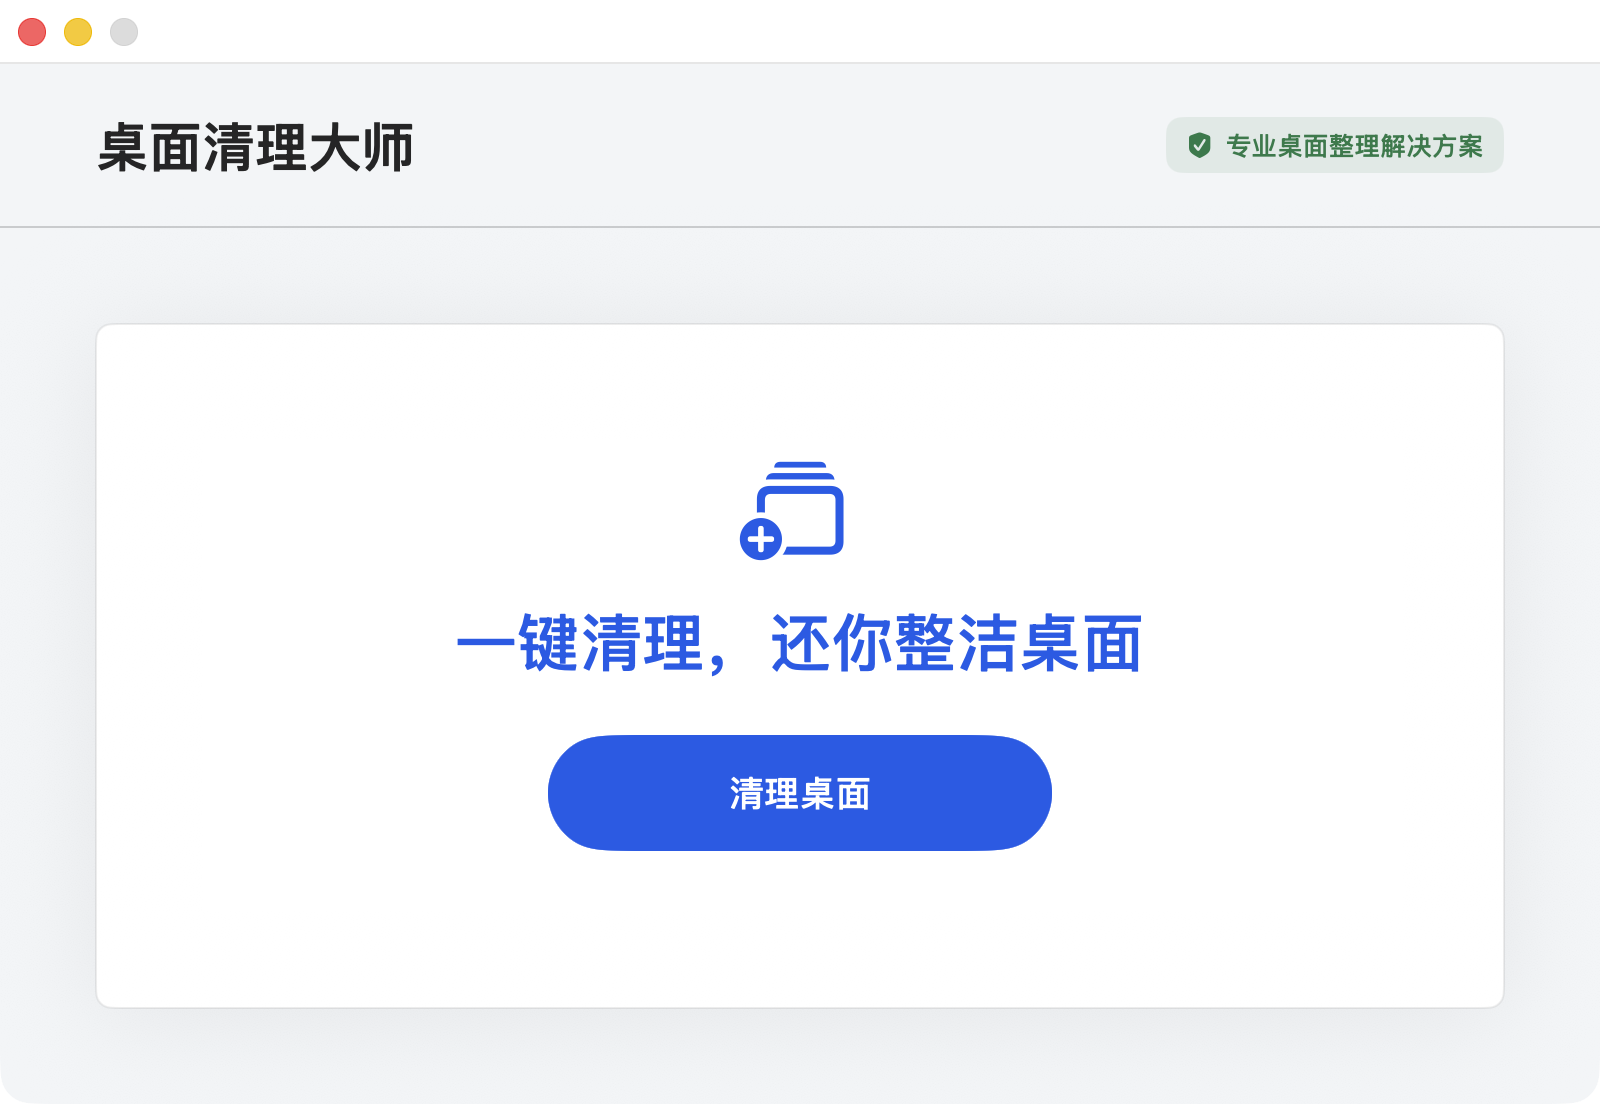
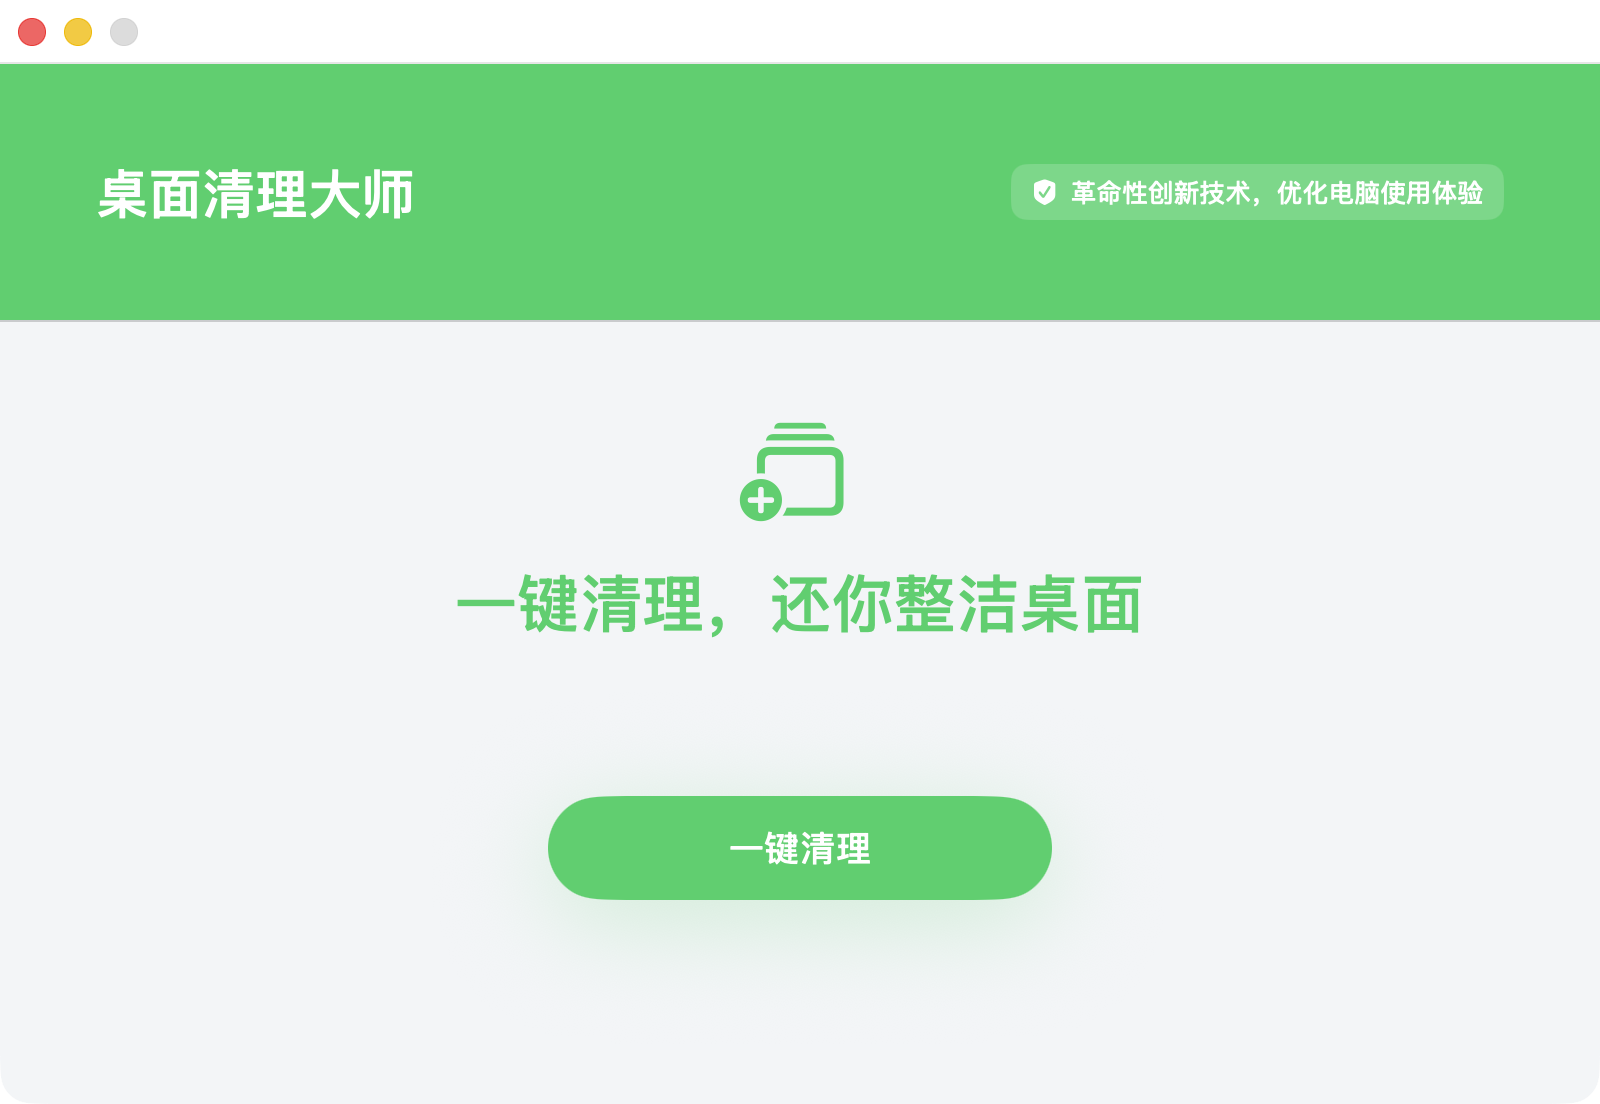
style(ui): unify green app shell
Move the green treatment to the header, remove the inner content frame, use one primary green token across states and buttons, and refresh the README screenshot.

diff --git a/Sources/DeskMagnetApp/ContentView.swift b/Sources/DeskMagnetApp/ContentView.swift
@@ -25,7 +25,7 @@ struct ContentView: View {
             )
             .frame(maxWidth: .infinity, maxHeight: .infinity)
             .padding(.horizontal, DeskMagnetRhythm.canvasInset)
-            .padding(.vertical, DeskMagnetRhythm.canvasInset)
+            .padding(.vertical, DeskMagnetRhythm.bodyInset)
         }
         .frame(minWidth: 720, minHeight: 440)
         .background(DeskMagnetPalette.window)
@@ -51,73 +51,29 @@ private struct ContentPanel: View {
     let primaryAction: () -> Void
 
     var body: some View {
-        ZStack {
-            RoundedRectangle(cornerRadius: 8, style: .continuous)
-                .fill(DeskMagnetPalette.panel)
-                .overlay {
-                    RoundedRectangle(cornerRadius: 8, style: .continuous)
-                        .stroke(DeskMagnetPalette.panelBorder, lineWidth: 1)
-                }
-                .shadow(color: DeskMagnetPalette.whisperShadow, radius: 24, x: 0, y: 4)
-
-            VStack(spacing: 0) {
-                Spacer(minLength: 0)
-                StatusSection(phase: phase)
-                    .frame(maxWidth: .infinity, alignment: .center)
-                if showsActionSection {
-                    ActionSection(
-                        primaryButtonTitle: primaryButtonTitle,
-                        showsPrimaryButton: showsPrimaryButton,
-                        isBusy: isBusy,
-                        phase: phase,
-                        primaryAction: primaryAction
-                    )
-                    .frame(maxWidth: .infinity, minHeight: 82, idealHeight: 82, maxHeight: 82, alignment: .center)
-                    .padding(.top, DeskMagnetRhythm.md)
-                }
-                Spacer(minLength: 0)
-            }
-            .padding(.horizontal, DeskMagnetRhythm.section)
-            .padding(.vertical, DeskMagnetRhythm.xl)
-
-            if !footnote.isEmpty {
-                FootnoteSection(text: footnote)
-                    .frame(maxWidth: .infinity, alignment: .center)
-                    .padding(.horizontal, DeskMagnetRhythm.section)
-                    .padding(.bottom, DeskMagnetRhythm.xl)
-                    .frame(maxHeight: .infinity, alignment: .bottom)
-            }
+        VStack(spacing: DeskMagnetRhythm.lg) {
+            StatusSection(phase: phase)
+                .frame(maxWidth: .infinity, alignment: .center)
+            ActionSection(
+                primaryButtonTitle: primaryButtonTitle,
+                showsPrimaryButton: showsPrimaryButton,
+                footnote: footnote,
+                isBusy: isBusy,
+                phase: phase,
+                primaryAction: primaryAction
+            )
+            .frame(maxWidth: .infinity, minHeight: 64, alignment: .center)
         }
-    }
-
-    private var showsActionSection: Bool {
-        switch phase {
-        case .attached:
-            false
-        default:
-            showsPrimaryButton || hasProgress
-        }
-    }
-
-    private var hasProgress: Bool {
-        switch phase {
-        case .working, .restoring:
-            true
-        default:
-            false
-        }
+        .padding(.horizontal, DeskMagnetRhythm.section)
+        .padding(.vertical, DeskMagnetRhythm.lg)
     }
 }
 
 private enum DeskMagnetPalette {
-    static let action = Color(red: 0.08, green: 0.36, blue: 0.92)
+    static let primary = Color(red: 0.08, green: 0.82, blue: 0.39)
     static let attention = Color(red: 0.00, green: 0.48, blue: 0.50)
     static let danger = Color(red: 0.76, green: 0.15, blue: 0.16)
     static let divider = Color.black.opacity(0.08)
-    static let panel = Color(nsColor: .textBackgroundColor)
-    static let panelBorder = Color.black.opacity(0.07)
-    static let success = Color(red: 0.13, green: 0.48, blue: 0.28)
-    static let whisperShadow = Color.black.opacity(0.06)
     static let window = Color(red: 0.95, green: 0.96, blue: 0.97)
 }
 
@@ -129,6 +85,8 @@ private enum DeskMagnetRhythm {
     static let xl: CGFloat = 32
     static let section: CGFloat = 48
     static let canvasInset: CGFloat = 48
+    static let bodyInset: CGFloat = 24
+    static let titleHeight: CGFloat = 128
 }
 
 private struct TitleSection: View {
@@ -136,12 +94,14 @@ private struct TitleSection: View {
         HStack(spacing: DeskMagnetRhythm.md) {
             Text("桌面清理大师")
                 .font(.system(size: 28, weight: .semibold))
-                .foregroundStyle(.primary)
+                .foregroundStyle(.white)
             Spacer()
             StatusBadge()
         }
         .padding(.horizontal, DeskMagnetRhythm.canvasInset)
         .padding(.vertical, DeskMagnetRhythm.lg)
+        .frame(height: DeskMagnetRhythm.titleHeight)
+        .background(DeskMagnetPalette.primary)
     }
 }
 
@@ -150,15 +110,15 @@ private struct StatusBadge: View {
         HStack(spacing: 6) {
             Image(systemName: "checkmark.shield.fill")
                 .font(.system(size: 13, weight: .semibold))
-            Text("专业桌面整理解决方案")
+            Text("革命性创新技术，优化电脑使用体验")
                 .font(.system(size: 13, weight: .medium))
         }
-        .foregroundStyle(DeskMagnetPalette.success)
+        .foregroundStyle(.white)
         .padding(.horizontal, 10)
         .padding(.vertical, 6)
         .background {
             RoundedRectangle(cornerRadius: 8, style: .continuous)
-                .fill(DeskMagnetPalette.success.opacity(0.10))
+                .fill(.white.opacity(0.18))
         }
     }
 }
@@ -198,21 +158,21 @@ private struct StatusSection: View {
                 title: "一键清理，还你整洁桌面",
                 subtitle: "",
                 symbolName: "rectangle.stack.badge.plus",
-                color: DeskMagnetPalette.action
+                color: DeskMagnetPalette.primary
             )
         case let .working(text, _):
             PhasePresentation(
                 title: text,
                 subtitle: "",
                 symbolName: "wand.and.stars",
-                color: DeskMagnetPalette.action
+                color: DeskMagnetPalette.primary
             )
         case let .attached(count):
             PhasePresentation(
                 title: "桌面已整理完毕",
                 subtitle: "已整理 \(count) 个图标",
                 symbolName: "checkmark.circle.fill",
-                color: DeskMagnetPalette.success
+                color: DeskMagnetPalette.primary
             )
         case .restoring:
             PhasePresentation(
@@ -242,26 +202,46 @@ private struct PhasePresentation {
 private struct ActionSection: View {
     let primaryButtonTitle: String
     let showsPrimaryButton: Bool
+    let footnote: String
     let isBusy: Bool
     let phase: DeskMagnetViewModel.Phase
     let primaryAction: () -> Void
 
     var body: some View {
         VStack(spacing: 12) {
-            ProgressSection(phase: phase)
+            if showsProgress {
+                ProgressSection(phase: phase)
+            }
             if showsPrimaryButton {
                 Button(action: primaryAction) {
                     Text(primaryButtonTitle)
                         .font(.system(size: 18, weight: .medium))
-                        .frame(width: 224, height: 46)
+                        .foregroundStyle(.white)
+                        .frame(width: 252, height: 52)
+                        .background {
+                            Capsule(style: .continuous)
+                                .fill(DeskMagnetPalette.primary)
+                                .shadow(color: DeskMagnetPalette.primary.opacity(0.24), radius: 24, x: 0, y: 10)
+                        }
                 }
-                .buttonStyle(.borderedProminent)
-                .controlSize(.large)
-                .tint(DeskMagnetPalette.action)
+                .buttonStyle(.plain)
+                .contentShape(Capsule(style: .continuous))
                 .disabled(isBusy)
             }
+            if !footnote.isEmpty {
+                FootnoteSection(text: footnote)
+            }
         }
-        .frame(maxWidth: .infinity, alignment: .center)
+        .frame(maxWidth: .infinity, maxHeight: .infinity, alignment: .center)
+    }
+
+    private var showsProgress: Bool {
+        switch phase {
+        case .working, .restoring:
+            true
+        default:
+            false
+        }
     }
 }
 
@@ -272,7 +252,7 @@ private struct ProgressSection: View {
         Group {
             if case let .working(_, progress) = phase {
                 ProgressView(value: progress)
-                    .tint(DeskMagnetPalette.action)
+                    .tint(DeskMagnetPalette.primary)
                     .frame(width: 210)
             } else if case .restoring = phase {
                 ProgressView()

diff --git a/Sources/DeskMagnetApp/DeskMagnetViewModel.swift b/Sources/DeskMagnetApp/DeskMagnetViewModel.swift
@@ -41,7 +41,7 @@ final class DeskMagnetViewModel: ObservableObject {
     var primaryButtonTitle: String {
         switch phase {
         case .idle, .failed:
-            "清理桌面"
+            "一键清理"
         case .attached:
             ""
         case .working, .restoring:

diff --git a/Sources/DeskMagnetApp/CLAUDE.md b/Sources/DeskMagnetApp/CLAUDE.md
@@ -3,7 +3,7 @@
 
 成员清单
 AppDelegate.swift: AppKit 生命周期，创建固定 800x520 亮色主窗口、隐藏原生标题栏文字、转换 Finder 顶左坐标、关闭时自动恢复、启动未恢复状态检测
-ContentView.swift: SwiftUI 内容区，以统一 canvas padding 呈现亮色“桌面清理大师”工具面板，不暴露吸附实现
+ContentView.swift: SwiftUI 内容区，以单一绿色主色、1:3 顶栏/主体分区呈现“桌面清理大师”工具面板，不暴露吸附实现
 DeskMagnetAppMain.swift: NSApplication 入口，设置 delegate 并启动事件循环
 DeskMagnetViewModel.swift: 主窗口状态模型，调用 AppCoordinator 执行吸附、关闭恢复、跟随同步并呈现错误
 WindowFollowController.swift: 监听 NSWindow.didMoveNotification，将 AppKit 窗口坐标转为 Finder 桌面坐标，按图标数量动态节流并 final sync

diff --git a/docs/screenshots/CLAUDE.md b/docs/screenshots/CLAUDE.md
@@ -2,7 +2,7 @@
 > L2 | 父级: /Users/luo/Desktop/ClaudeCode/web/DeskMagnet/docs/CLAUDE.md
 
 成员清单
-desk-cleaner-home.png: README 主界面截图，来自本地 `build/DeskMagnet.app` 的窗口截图
+desk-cleaner-home.png: README 主界面截图，展示绿色顶栏、打通主体和“一键清理”按钮，来自本地 `build/DeskMagnet.app` 的窗口截图
 
 模块法则:
 截图必须来自当前可构建 App，不手工拼图，不使用过期 UI。

diff --git a/CLAUDE.md b/CLAUDE.md
@@ -44,5 +44,6 @@ P0 先做命令行验证器，不做 UI；Finder 真实副作用被 ShellRunning
 2026-05-30: 创建 README.md，记录本地构建、GitHub runner 打包与 ad-hoc signed `.app` 发布边界；打包脚本加入签名验证。
 2026-05-30: 增加 GitHub Actions 主工作流，push/PR 远端验证 SwiftPM build+test，手动或 v* tag 生成 signed app zip artifact。
 2026-05-30: 统一主界面外部 padding，隐藏原生标题栏文字，并将本地 App 截图加入 README 展示。
[phone redacted]: 将 UI 主色收敛为单一绿色，顶栏与主体按 1:3 分区，主体区域去除内框打通。
 
 法则: 极简·稳定·导航·版本精确